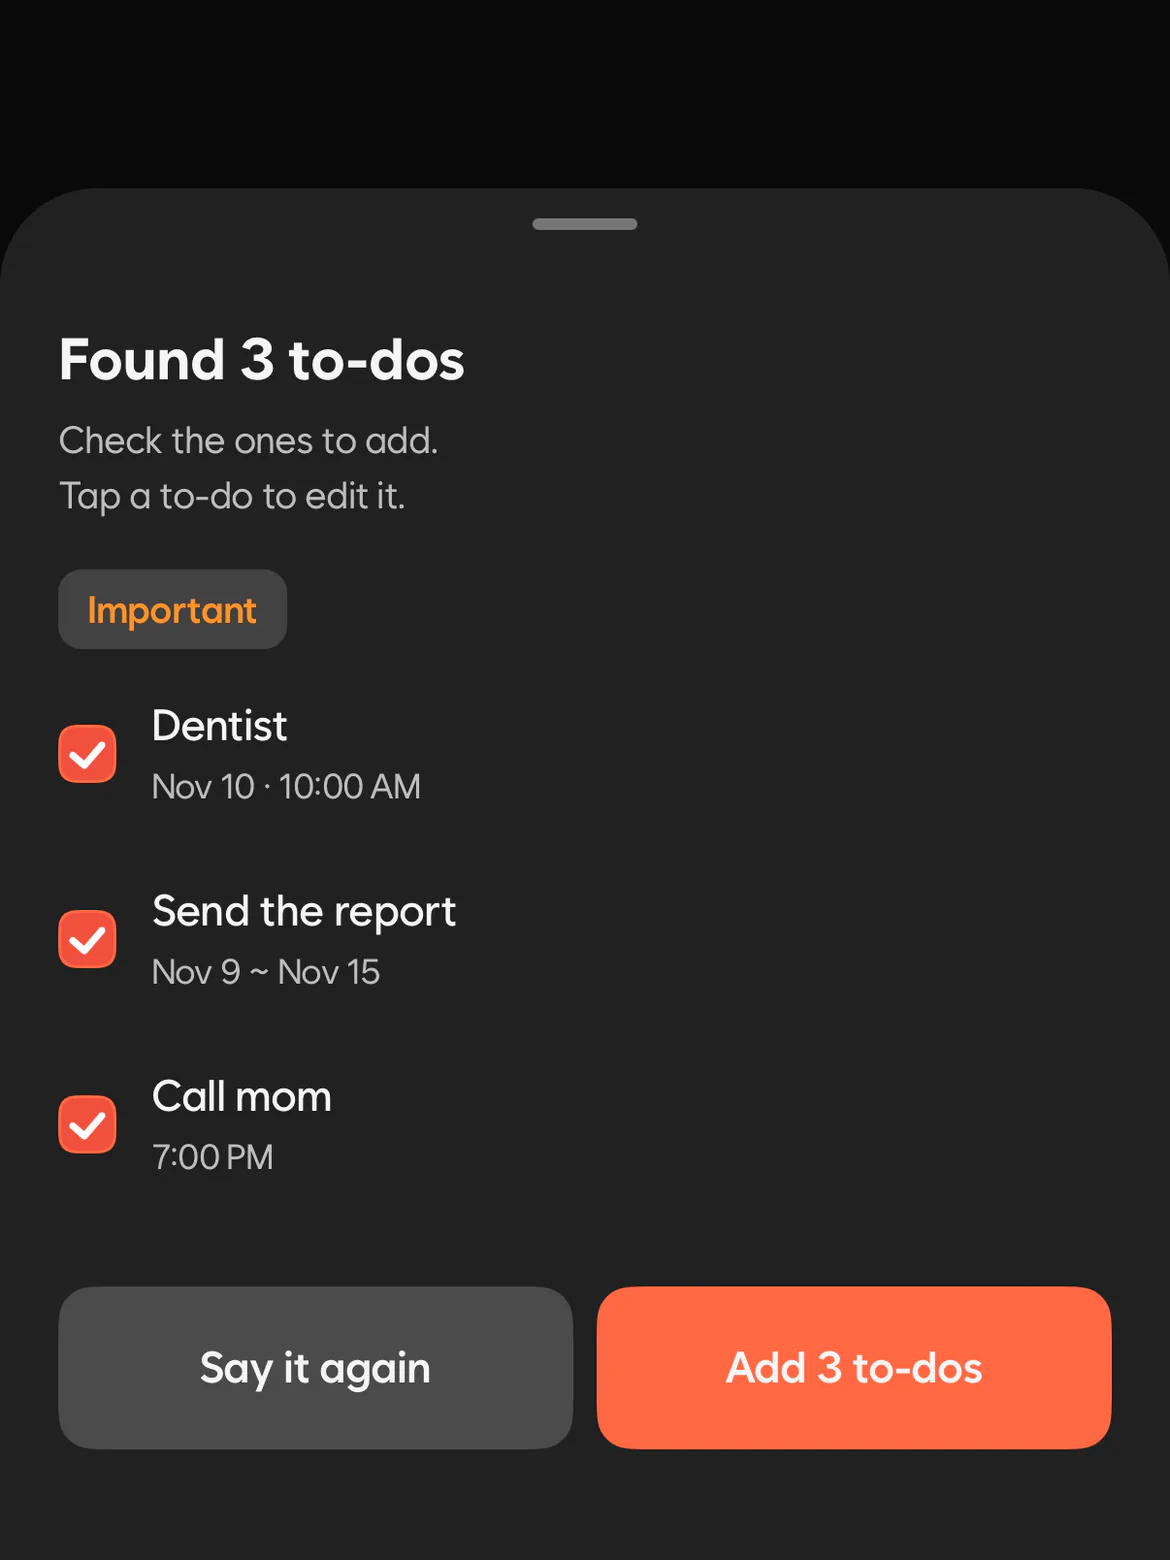
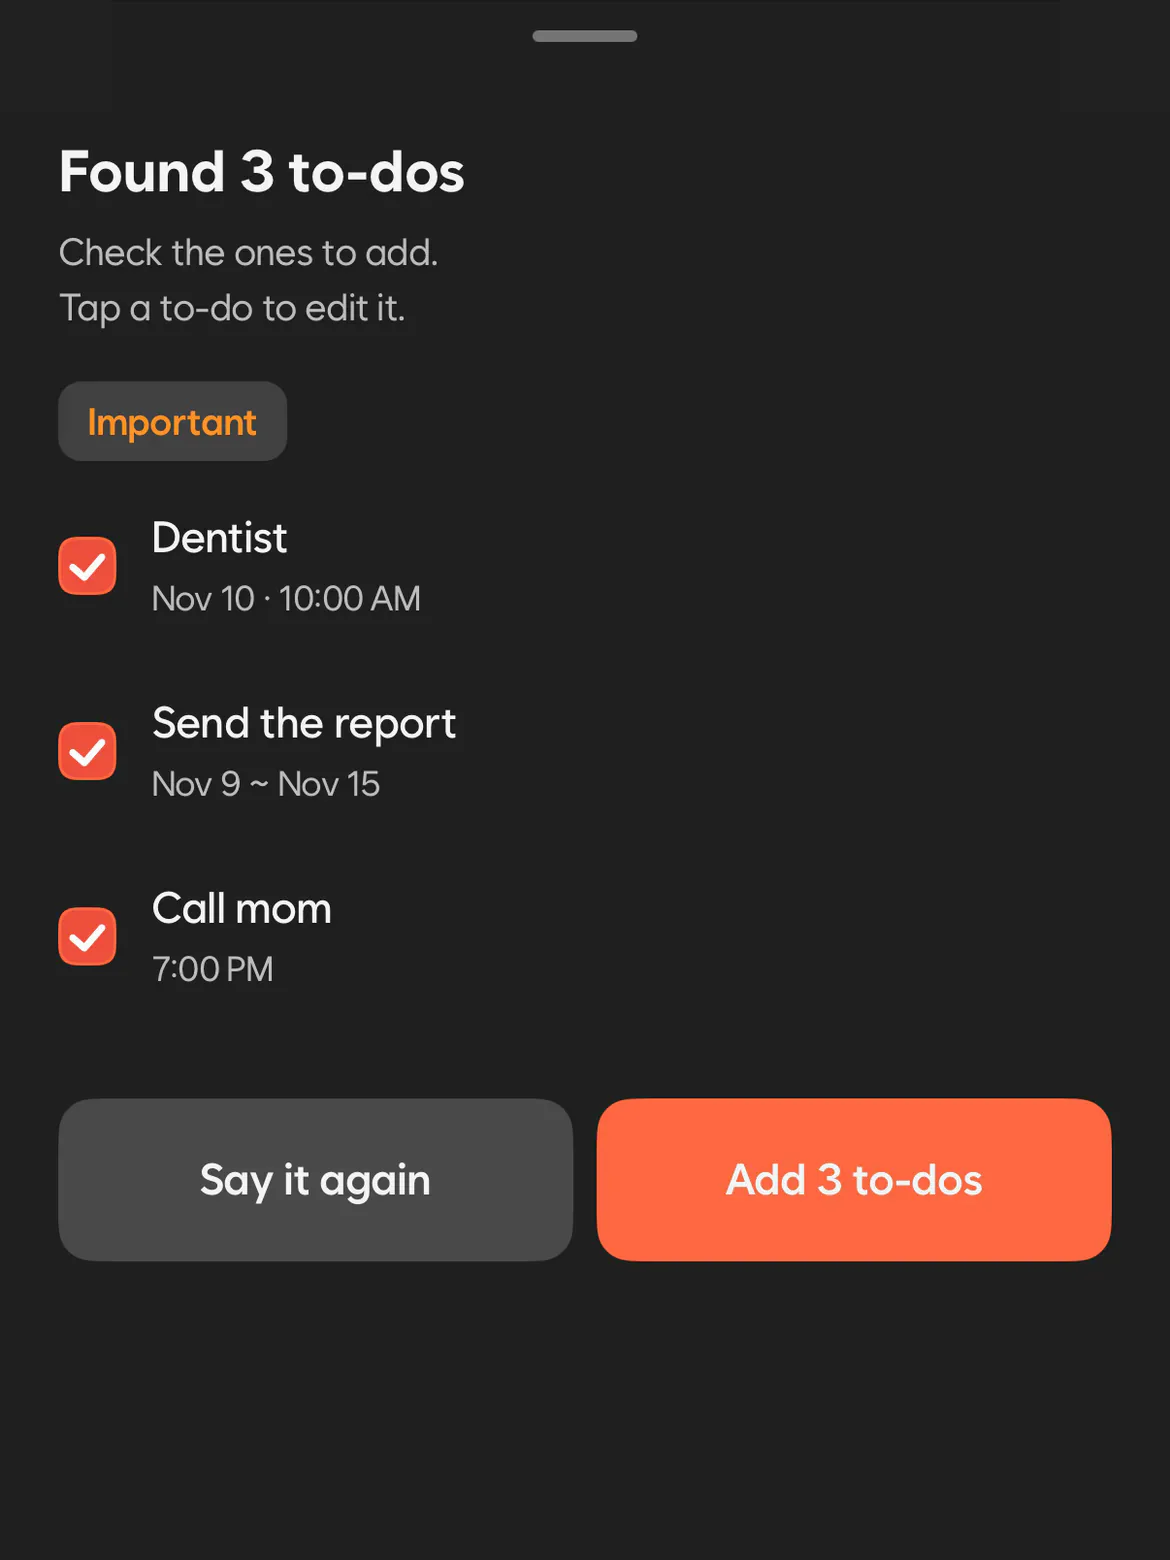
fix(mobile): 새 기능 소개 CTA가 기능 화면으로 옮긴 뒤 동의·마이크를 묻고 바로 시작한다
- 1.15.0 "지금 말해 보기"가 새 기능 화면을 닫고 할 일 시트(startVoice)·메모 탭(startVoiceNote)으로 간다
- 도착한 화면이 기존 AI 동의 시트·마이크 권한을 묻고, 동의하면 바로 듣기를 시작한다
- 거절하면 그 화면에 남아 마이크 버튼으로 다시 시도할 수 있다
- 말하기 안내(voiceHint) 대신 바로 시작 요청(startVoice)으로 이름과 동작을 바꾼다
- 슬라이드 1 이미지 위쪽 회색 띠를 잘라 시트가 위에 붙게 한다

diff --git a/apps/mobile/src/features/planning/composer/components/todo-create-bottom-sheet.tsx b/apps/mobile/src/features/planning/composer/components/todo-create-bottom-sheet.tsx
@@ -44,7 +44,7 @@ import {
 } from '@src/shared/ui';
 import { useMutation, useSuspenseQuery } from '@tanstack/react-query';
 import { Separator } from 'heroui-native';
-import { type ComponentProps, Suspense, useEffect, useState } from 'react';
+import { type ComponentProps, Suspense, useEffect, useEffectEvent, useRef, useState } from 'react';
 import { Controller, useForm, type UseFormReturn, useFormState, useWatch } from 'react-hook-form';
 import { match, P } from 'ts-pattern';
 
@@ -78,7 +78,7 @@ export function TodoCreateBottomSheet({ onMemoChanged }: TodoCreateBottomSheetPr
 TodoCreateBottomSheet.Form = function Form({ onMemoChanged }: TodoCreateBottomSheetProps) {
   const sheet = useSheetRoute('/feed');
   const [date] = useTodoSheetDateKey();
-  const [{ categoryId: requestedCategoryId, title, time, voiceHint }] =
+  const [{ categoryId: requestedCategoryId, title, time, startVoice }] =
     useRouteParams(todoCreateParamsSchema);
   const { data: categoriesResult } = useSuspenseQuery(useGetTodoCategoriesQueryOptions());
   const categoryId = TodoCategoryPolicy.getInitialCategoryId(
@@ -108,7 +108,7 @@ TodoCreateBottomSheet.Form = function Form({ onMemoChanged }: TodoCreateBottomSh
         visibility: 'PUBLIC',
         repeat: null,
       }}
-      isVoiceHintRequested={voiceHint != null}
+      isVoiceStartRequested={startVoice != null}
       isOpen={sheet.isOpen}
       onOpenChange={sheet.onOpenChange}
       onClose={() => sheet.close()}
@@ -136,7 +136,8 @@ TodoCreateBottomSheet.Error = function ErrorFallback({ reset }: QueryErrorFallba
 
 interface TodoCreateFormProps {
   defaultValues: AddTodoFormValues;
-  isVoiceHintRequested: boolean;
+  /** 새 기능 소개처럼 말하기를 권한 화면에서 왔다. 열리면 바로 동의·마이크를 거쳐 듣기 시작한다 */
+  isVoiceStartRequested: boolean;
   isOpen: boolean;
   onOpenChange: (isOpen: boolean) => void;
   onClose: () => void;
@@ -147,7 +148,7 @@ interface TodoCreateFormProps {
 
 function TodoCreateForm({
   defaultValues,
-  isVoiceHintRequested,
+  isVoiceStartRequested,
   isOpen,
   onOpenChange,
   onClose,
@@ -178,12 +179,23 @@ function TodoCreateForm({
 
   const voice = useAddTodoQuickVoice({ form, onExit });
   useOnScreenBlur(voice.interrupt);
-  const [isVoiceHintForced, setIsVoiceHintForced] = useState(isVoiceHintRequested);
   const [isVoiceHintPending] = useMyPendingCoachmark('voice-quick-start');
   const { type: aiParseQuotaType } = useQuotaStatus('AI_PARSE');
   // 이번 달 AI를 다 썼으면 말로 하라고 권하지 않는다. 직접 입력은 계속 된다
   const canSuggestVoice = aiParseQuotaType !== 'used-up';
-  const isVoiceHintShown = canSuggestVoice && (isVoiceHintRequested || isVoiceHintPending);
+  const isVoiceHintShown = canSuggestVoice && isVoiceHintPending;
+  const hasStartedRequestedVoiceRef = useRef(false);
+  const startRequestedVoice = useEffectEvent(() => {
+    voice.start().catch(reportUnexpectedError);
+  });
+  // 시트가 다 열린 뒤 한 번만 시작한다. 동의·마이크를 거절하면 시트에 남아 마이크로 다시 시도한다
+  useEffect(() => {
+    if (!isVoiceStartRequested || !isOpen || hasStartedRequestedVoiceRef.current) {
+      return;
+    }
+    hasStartedRequestedVoiceRef.current = true;
+    startRequestedVoice();
+  }, [isVoiceStartRequested, isOpen]);
   const [isTitleFocused, setIsTitleFocused] = useState(false);
   const [hasTouchedForm, setHasTouchedForm] = useState(false);
 
@@ -346,7 +358,7 @@ function TodoCreateForm({
                   <BottomSheetInput
                     ref={ref}
                     // 처음 안내는 키보드 없이 띄운다. 키보드 뒤로 잘리거나 첫 탭을 빼앗지 않게 하려는 것이다
-                    autoFocus={!isVoiceHintShown && !voice.isRestarting}
+                    autoFocus={!isVoiceHintShown && !isVoiceStartRequested && !voice.isRestarting}
                     onFocus={() => setIsTitleFocused(true)}
                     onBlur={() => setIsTitleFocused(false)}
                     placeholder={t('add.placeholder')}
@@ -377,17 +389,8 @@ function TodoCreateForm({
                 isEnabled={canSuggestVoice && !isTitleFocused}
                 isPassThrough
                 isDismissed={hasTouchedForm}
-                isForced={isVoiceHintForced}
-                onDismiss={() => setIsVoiceHintForced(false)}
               >
-                <QuickVoiceButton
-                  onPress={() => {
-                    setIsVoiceHintForced(false);
-
-                    return voice.start();
-                  }}
-                  testID="todo-quick-voice-button"
-                />
+                <QuickVoiceButton onPress={() => voice.start()} testID="todo-quick-voice-button" />
               </CoachmarkPopover>
               <TodoComposerSubmitButton
                 isDisabled={isSubmitDisabled}

diff --git a/apps/mobile/src/features/voice/components/note/voice-note-start-button.test.tsx b/apps/mobile/src/features/voice/components/note/voice-note-start-button.test.tsx
@@ -1,0 +1,71 @@
+import '@src/shared/i18n/init';
+import { createCoachmarkStorage } from '@src/features/device/coachmark/__tests__/coachmark.fixtures';
+import { createConsent } from '@src/features/identity/consent/__tests__/consent.fixtures';
+import { CONSENT_QUERY_KEYS } from '@src/features/identity/consent/constants/consent-query-keys';
+import { createUser } from '@src/features/identity/user/__tests__/user.fixtures';
+import { USER_QUERY_KEYS } from '@src/features/identity/user/constants/user-query-keys';
+import {
+  createHttpClientStub,
+  createRouteParamsFake,
+  createSpeechRecognizerStub,
+  createTestQueryClient,
+  renderUi,
+} from '@src/shared/__tests__';
+import { setupFakeTimersPerTest } from '@src/shared/__tests__/setup-fake-timers-per-test';
+import { LocalDateProvider } from '@src/shared/providers/local-date-provider';
+import { OverlayProvider } from '@src/shared/ui';
+import { screen } from '@testing-library/react-native';
+import { router } from 'expo-router';
+
+import { VoiceNoteStartButton } from './voice-note-start-button';
+
+const ACCOUNT_ID = 'user-1';
+
+async function renderButton(routeParams: Record<string, string>) {
+  createRouteParamsFake(routeParams);
+  const httpClient = createHttpClientStub();
+  httpClient.get.mockReturnValue(new Promise(() => undefined));
+  const speechRecognizer = createSpeechRecognizerStub();
+  const { syncStorage } = createCoachmarkStorage([
+    { accountId: ACCOUNT_ID, kind: 'voice-note-start' },
+  ]);
+  const queryClient = createTestQueryClient();
+  queryClient.setQueryData(USER_QUERY_KEYS.me(), createUser({ id: ACCOUNT_ID }));
+  // 아직 AI 데이터 이용에 답하지 않은 계정
+  queryClient.setQueryData(CONSENT_QUERY_KEYS.detail(), createConsent());
+
+  await renderUi(
+    <LocalDateProvider>
+      <OverlayProvider>
+        <VoiceNoteStartButton coachmarkPlacement="bottom" />
+      </OverlayProvider>
+    </LocalDateProvider>,
+    { queryClient, di: { httpClient, syncStorage, speechRecognizer } },
+  );
+
+  return { speechRecognizer };
+}
+
+describe('VoiceNoteStartButton 시작 요청', () => {
+  setupFakeTimersPerTest({ advanceTimers: true });
+
+  it('다른 화면이 시작을 요청하고 들어오면 이 화면에서 AI 동의 시트를 바로 띄우고 요청을 지운다', async () => {
+    // When
+    const { speechRecognizer } = await renderButton({ startVoiceNote: '1' });
+
+    // Then
+    expect(await screen.findByTestId('ai-consent-sheet')).toBeTruthy();
+    expect(router.setParams).toHaveBeenCalledWith({ startVoiceNote: undefined });
+    expect(speechRecognizer.getPermission).not.toHaveBeenCalled();
+  });
+
+  it('요청 없이 들어오면 누르기 전까지 아무것도 묻지 않는다', async () => {
+    // When
+    await renderButton({});
+
+    // Then
+    expect(screen.getByTestId('voice-note-start')).toBeTruthy();
+    expect(screen.queryByTestId('ai-consent-sheet')).toBeNull();
+    expect(router.setParams).not.toHaveBeenCalled();
+  });
+});

diff --git a/apps/mobile/src/features/planning/composer/components/todo-create-bottom-sheet.test.tsx b/apps/mobile/src/features/planning/composer/components/todo-create-bottom-sheet.test.tsx
@@ -1,5 +1,7 @@
 import '@src/shared/i18n/init';
 import { err, ok } from '@src/core/errors/result';
+import { createConsent } from '@src/features/identity/consent/__tests__/consent.fixtures';
+import { CONSENT_QUERY_KEYS } from '@src/features/identity/consent/constants/consent-query-keys';
 import { createTodoCategoryListDto } from '@src/features/planning/category/__tests__/todo-category.fixtures';
 import { createTodoApiError } from '@src/features/planning/todo/__tests__/todo.fixtures';
 import { createRecognitionLanguageRepository } from '@src/features/voice/apis/recognition-language.repository';
@@ -11,6 +13,7 @@ import {
   createMemoryStorage,
   createMemorySyncStorage,
   createSpeechRecognizerStub,
+  createTestQueryClient,
   createVoiceNoteStorageFake,
   renderUi,
 } from '@src/shared/__tests__';
@@ -23,10 +26,14 @@ import { TodoCreateBottomSheet } from './todo-create-bottom-sheet';
 
 const PLACEHOLDER = '무엇을 하고 싶나요?';
 
-async function renderCreateSheet() {
+async function renderCreateSheet(routeParams: Record<string, string> = {}) {
   const httpClient = createHttpClientStub();
   httpClient.get.mockResolvedValue(ok(createTodoCategoryListDto()));
-  jest.mocked(useLocalSearchParams).mockReturnValue({ date: '2026-10-27' });
+  jest.mocked(useLocalSearchParams).mockReturnValue({ date: '2026-10-27', ...routeParams });
+  const queryClient = createTestQueryClient();
+  // 아직 AI 데이터 이용에 답하지 않은 계정
+  queryClient.setQueryData(CONSENT_QUERY_KEYS.detail(), createConsent());
+  const speechRecognizer = createSpeechRecognizerStub();
 
   await renderUi(
     <LocalDateProvider>
@@ -42,14 +49,15 @@ async function renderCreateSheet() {
         ...createVoiceNoteStorageFake().di,
         recognitionLanguageRepository:
           createRecognitionLanguageRepository(createMemorySyncStorage()),
-        speechRecognizer: createSpeechRecognizerStub(),
+        speechRecognizer,
         haptics: createHapticsGatewayStub(),
         storage: createMemoryStorage(),
       },
+      queryClient,
     },
   );
 
-  return { httpClient };
+  return { httpClient, speechRecognizer };
 }
 
 describe('TodoCreateBottomSheet 저장 실패', () => {
@@ -79,5 +87,16 @@ describe('TodoCreateBottomSheet 저장 실패', () => {
       expect(httpClient.post).toHaveBeenCalledTimes(2);
     });
     expect(httpClient.post.mock.calls[1]?.[1]).toMatchObject({ title: '우유 사기' });
+  });
+});
+
+describe('TodoCreateBottomSheet 바로 말하기 요청', () => {
+  it('새 기능 소개에서 말하기를 요청하고 열리면 이 시트 위에서 AI 동의를 먼저 묻는다', async () => {
+    // When
+    const { speechRecognizer } = await renderCreateSheet({ startVoice: '1' });
+
+    // Then
+    expect(await screen.findByTestId('ai-consent-sheet')).toBeTruthy();
+    expect(speechRecognizer.getPermission).not.toHaveBeenCalled();
   });
 });

diff --git a/apps/mobile/src/features/voice/components/note/voice-note-start-button.tsx b/apps/mobile/src/features/voice/components/note/voice-note-start-button.tsx
@@ -1,5 +1,7 @@
 import { CoachmarkPopover } from '@src/features/device/coachmark/components/coachmark-popover';
 import { useFontScaledSize } from '@src/shared/hooks/use-font-scaled-size';
+import { useReportUnexpectedError } from '@src/shared/hooks/use-report-unexpected-error';
+import { useRouteParams } from '@src/shared/hooks/use-route-params';
 import { useTranslation } from '@src/shared/i18n';
 import {
   HStack,
@@ -9,8 +11,10 @@ import {
   useAdaptivePaneLayoutKey,
 } from '@src/shared/ui';
 import { PressableFeedback } from 'heroui-native';
+import { useEffect, useEffectEvent, useRef } from 'react';
 
 import { useStartVoiceNote } from '../../hooks/use-start-voice-note';
+import { voiceNoteStartParamsSchema } from '../../schemas/voice-note-params.schema';
 
 interface VoiceNoteStartButtonProps {
   coachmarkPlacement: HintPopoverContentProps['placement'];
@@ -25,6 +29,7 @@ export function VoiceNoteStartButton({
   const fontScaledSize = useFontScaledSize();
   const start = useStartVoiceNote();
   const layoutKey = useAdaptivePaneLayoutKey();
+  useStartRequestedVoiceNote(start);
 
   return (
     <CoachmarkPopover
@@ -55,4 +60,23 @@ export function VoiceNoteStartButton({
       </PressableFeedback>
     </CoachmarkPopover>
   );
+}
+
+/** 다른 화면이 시작을 요청했으면 한 번만 버튼을 누른 것처럼 시작한다. 동의·마이크를 거절하면 메모 탭에 남아 다시 누를 수 있다 */
+function useStartRequestedVoiceNote(start: ReturnType<typeof useStartVoiceNote>) {
+  const [{ startVoiceNote }, setParams] = useRouteParams(voiceNoteStartParamsSchema);
+  const hasStartedRef = useRef(false);
+  const reportUnexpectedError = useReportUnexpectedError('voice');
+  const startRequested = useEffectEvent(() => {
+    setParams({ startVoiceNote: undefined });
+    start().catch(reportUnexpectedError);
+  });
+
+  useEffect(() => {
+    if (startVoiceNote == null || hasStartedRef.current) {
+      return;
+    }
+    hasStartedRef.current = true;
+    startRequested();
+  }, [startVoiceNote]);
 }

diff --git a/apps/mobile/src/features/app-config/whats-new/components/release-1-15-0-steps.test.tsx b/apps/mobile/src/features/app-config/whats-new/components/release-1-15-0-steps.test.tsx
@@ -16,7 +16,7 @@ import {
   renderUi,
 } from '@src/shared/__tests__';
 import { createFeatureAttributionStore } from '@src/shared/analytics/feature-attribution';
-import { fireEvent, screen, waitFor } from '@testing-library/react-native';
+import { fireEvent, screen } from '@testing-library/react-native';
 import { router, useLocalSearchParams } from 'expo-router';
 
 import { createWhatsNewRepository } from '../apis/whats-new.repository';
@@ -97,7 +97,7 @@ describe('Release1150Steps', () => {
     ).toBe(true);
   });
 
-  it('말로 할 일 CTA는 흐름을 닫고 마이크 안내와 함께 할 일 추가 시트를 연다', async () => {
+  it('말로 할 일 CTA는 흐름을 닫고 할 일 추가 시트에서 바로 말하기를 시작하게 한다', async () => {
     // Given
     const { analytics, unmount } = await renderSteps();
 
@@ -108,7 +108,7 @@ describe('Release1150Steps', () => {
     // Then
     expect(router.replace).toHaveBeenCalledWith({
       pathname: '/todo/new',
-      params: { voiceHint: '1' },
+      params: { startVoice: '1' },
     });
     expect(analytics.trackEvent).toHaveBeenCalledWith('feature_card_cta', {
       campaign_id: RELEASE_1_15_0.campaignId,
@@ -125,7 +125,7 @@ describe('Release1150Steps', () => {
     );
   });
 
-  it('둘째 단계의 말로 메모 CTA는 한도·동의·권한을 지난 뒤 흐름을 닫고 녹음으로 간다', async () => {
+  it('둘째 단계의 말로 메모 CTA는 동의·권한을 묻기 전에 흐름을 닫고 메모 탭에서 시작하게 한다', async () => {
     // Given
     await renderSteps();
 
@@ -134,7 +134,10 @@ describe('Release1150Steps', () => {
     await fireEvent.press(screen.getByTestId('whats-new-step-action'));
 
     // Then
-    await waitFor(() => expect(router.replace).toHaveBeenCalledWith('/voice-notes/record'));
+    expect(router.replace).toHaveBeenCalledWith({
+      pathname: '/memo',
+      params: { startVoiceNote: '1' },
+    });
     expect(router.push).not.toHaveBeenCalled();
   });
 

diff --git a/apps/mobile/src/features/app-config/whats-new/components/release-1-15-0-steps.tsx b/apps/mobile/src/features/app-config/whats-new/components/release-1-15-0-steps.tsx
@@ -1,4 +1,3 @@
-import { useStartVoiceNote } from '@src/features/voice/hooks/use-start-voice-note';
 import { useStepper } from '@src/shared/hooks/use-stepper';
 import { useTranslation } from '@src/shared/i18n';
 import { Box, Spacing, Steps } from '@src/shared/ui';
@@ -28,7 +27,6 @@ export function Release1150Steps() {
   const [{ source }] = useWhatsNewParams();
   const { t } = useTranslation(['whatsNew', 'common']);
   const flow = useWhatsNewFlow({ release: RELEASE_1_15_0, source });
-  const startVoiceNote = useStartVoiceNote();
   const stepper = useStepper<Release1150StepMap>({
     id: 'whats-new-1.15.0',
     initial: { step: 'voiceTodo', context: {} },
@@ -82,7 +80,7 @@ export function Release1150Steps() {
                 actionLabel={t('v1_15_0.voiceTodo.action')}
                 onAction={() => {
                   flow.trackCta({ step: 'voiceTodo', feature: 'voice_quick' });
-                  flow.leaveTo({ pathname: '/todo/new', params: { voiceHint: '1' } });
+                  flow.leaveTo({ pathname: '/todo/new', params: { startVoice: '1' } });
                 }}
               />
             )}
@@ -99,7 +97,7 @@ export function Release1150Steps() {
                 actionLabel={t('v1_15_0.voiceNote.action')}
                 onAction={() => {
                   flow.trackCta({ step: 'voiceNote', feature: 'voice_note' });
-                  startVoiceNote({ onReadyToRecord: () => flow.leaveTo('/voice-notes/record') });
+                  flow.leaveTo({ pathname: '/memo', params: { startVoiceNote: '1' } });
                 }}
               />
             )}

diff --git a/apps/mobile/src/features/planning/todo/schemas/todo-params.schema.ts b/apps/mobile/src/features/planning/todo/schemas/todo-params.schema.ts
@@ -20,7 +20,7 @@ export const subTodoParamsSchema = todoParamsSchema.extend({
 
 export const todoSheetDateParamsSchema = feedParamsSchema.pick({ date: true });
 
-/** 할 일 추가 시트의 시작 값. 다른 화면이 제안한 카테고리·제목·시각과 말하기 안내다. 잘못된 값은 버리고 빈 시트로 연다 */
+/** 할 일 추가 시트의 시작 값. 다른 화면이 제안한 카테고리·제목·시각과 바로 말하기 시작이다. 잘못된 값은 버리고 빈 시트로 연다 */
 export const todoCreateParamsSchema = z.object({
   categoryId: routeIntegerStringSchema
     .pipe(todoCategoryIdParamSchema.shape.id)
@@ -28,5 +28,5 @@ export const todoCreateParamsSchema = z.object({
     .catch(undefined),
   title: createTodoSchema.shape.title.optional().catch(undefined),
   time: timeOfDaySchema.optional().catch(undefined),
-  voiceHint: z.literal('1').optional().catch(undefined),
+  startVoice: z.literal('1').optional().catch(undefined),
 });

diff --git a/apps/mobile/src/features/voice/schemas/voice-note-params.schema.ts b/apps/mobile/src/features/voice/schemas/voice-note-params.schema.ts
@@ -14,3 +14,8 @@ export const voiceNoteRecordParamsSchema = z.object({
   draftId: voiceNoteDraftIdSchema.optional().catch(undefined),
   entry: z.enum(['memo_tab', 'quick_voice_upgrade']).catch('memo_tab'),
 });
+
+/** 메모 탭에서 말로 메모하기를 바로 시작하라는 요청. 새 기능 소개처럼 권한 화면에서 넘어올 때 쓴다 */
+export const voiceNoteStartParamsSchema = z.object({
+  startVoiceNote: z.literal('1').optional().catch(undefined),
+});
